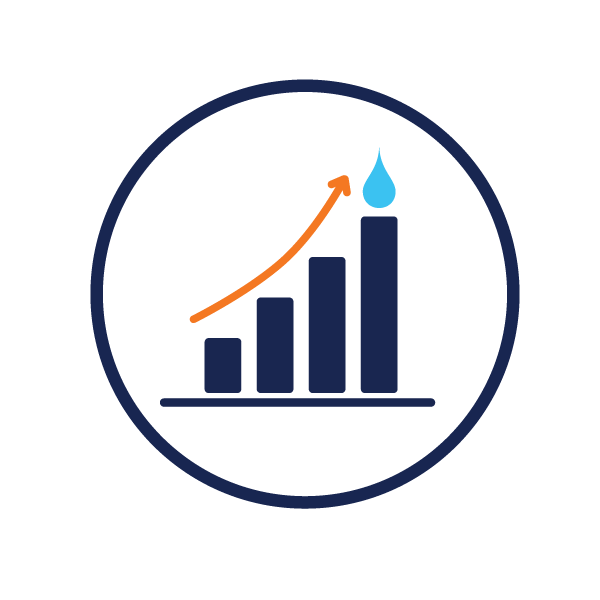
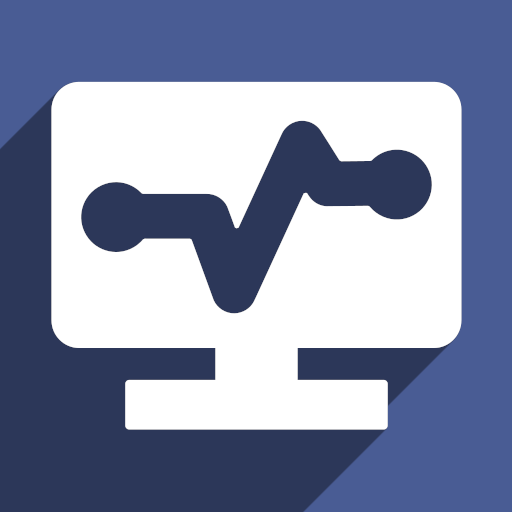
[UPD] base_wua_pressurized_irrigation_monitoring: Add iconset * fa-monitoring-monitor * fa-monitoring-line-ecg * fa-monitoring-control * fa-monitoring-compare

diff --git a/base_wua_pressurized_irrigation_monitoring/static/src/iconset/css/monitoring_iconset.css b/base_wua_pressurized_irrigation_monitoring/static/src/iconset/css/monitoring_iconset.css
@@ -1,0 +1,25 @@
+@font-face {
+  font-family: 'monitoring_iconset';
+  src: url('../font/monitoring_iconset.eot?76893623');
+  src: url('../font/monitoring_iconset.eot?76893623#iefix') format('embedded-opentype'),
+       url('../font/monitoring_iconset.woff2?76893623') format('woff2'),
+       url('../font/monitoring_iconset.woff?76893623') format('woff'),
+       url('../font/monitoring_iconset.ttf?76893623') format('truetype'),
+       url('../font/monitoring_iconset.svg?76893623#monitoring_iconset') format('svg');
+  font-weight: normal;
+  font-style: normal;
+}
+
+  [class^="fa-monitoring-"]:before, [class*=" fa-monitoring-"]:before {
+   display:inline-block;
+   font:normal normal normal 14px/1 monitoring_iconset;
+   font-size:inherit;
+   text-rendering:auto;
+   -webkit-font-smoothing:antialiased;
+   -moz-osx-font-smoothing:grayscale;
+}
+ 
+.fa-monitoring-monitor:before { content: '\e800'; } /* '' */
+.fa-monitoring-line-ecg:before { content: '\e801'; } /* '' */
+.fa-monitoring-control:before { content: '\e802'; } /* '' */
+.fa-monitoring-compare:before { content: '\e803'; } /* '' */

diff --git a/wua_flowmeter_rest_salz/models/wua_flowmeter.py b/wua_flowmeter_rest_salz/models/wua_flowmeter.py
@@ -1,0 +1,72 @@
+# -*- coding: utf-8 -*-
+# 2019 Moval Agroingeniería
+# License AGPL-3.0 or later (http://www.gnu.org/licenses/agpl.html).
+
+from odoo import models, fields, api, exceptions, _
+
+
+class WuaFlowmeter(models.Model):
+    _inherit = 'wua.flowmeter'
+
+    flowmeter_salz_id = fields.Integer(
+        string='Salz ID',
+        size=3,
+        help='The id that identifies the remote Salz flowmeter')
+
+    flowmeter_salz_gid = fields.Integer(
+        string='Salz GID',
+        size=3,
+        help='The group id that identifies the remote Salz flowmeter')
+
+    _sql_constraints = [
+        ('negative_flowmeter_id',
+         'CHECK (flowmeter_salz_id >= 0)',
+         'Flow meter ID can not be negative.'),
+        ('negative_flowmeter_gid',
+         'CHECK (flowmeter_salz_gid >= 0)',
+         'Flow meter GID can not be negative.'),
+        ]
+
+    @api.model
+    def run_remoteflowmeter_application_url(self):
+        enable_remote_flowmeter = self.env['ir.values'].get_default(
+            'wua.irrigation.configuration', 'enable_remote_flowmeter')
+        if not enable_remote_flowmeter:
+            raise exceptions.UserError(
+                _('The remote flowmeter is not enabled.'))
+        url_remote_flowmeter_app = self.env['ir.values'].get_default(
+            'wua.irrigation.configuration', 'url_remote_flowmeter_app')
+        if not url_remote_flowmeter_app:
+            raise exceptions.UserError(
+                _('There is not a URL for the remote flowmeter application.'))
+        return {
+            'type': 'ir.actions.act_url',
+            'url': url_remote_flowmeter_app,
+            'target': 'new', }
+
+    @api.model
+    def create(self, vals):
+        if 'flowmeter_salz_id' in vals and 'flowmeter_salz_gid' in vals:
+            current_flowmeters = self.env['wua.flowmeter'].search([])
+            for flowmeter in current_flowmeters:
+                if flowmeter.flowmeter_salz_id == vals['flowmeter_salz_id'] \
+                    and flowmeter.flowmeter_salz_gid == \
+                        vals['flowmeter_salz_gid']:
+                    raise exceptions.ValidationError(
+                        _('A flowmeter already exists with the same ID / GID '
+                          'combination.'))
+            new_flowmeter = super(WuaFlowmeter, self).create(vals)
+        return new_flowmeter
+
+    @api.multi
+    def write(self, vals):
+        if 'flowmeter_salz_id' in vals and 'flowmeter_salz_gid' in vals:
+            current_flowmeters = self.env['wua.flowmeter'].search([])
+            for flowmeter in current_flowmeters:
+                if flowmeter.flowmeter_salz_id == vals['flowmeter_salz_id'] \
+                    and flowmeter.flowmeter_salz_gid == \
+                        vals['flowmeter_salz_gid']:
+                    raise exceptions.ValidationError(
+                        _('A flowmeter already exists with the same ID / GID '
+                          'combination.'))
+        return super(WuaFlowmeter, self).write(vals)

diff --git a/wua_flowmeter_rest_salz/models/wua_irrigation_config_settings.py b/wua_flowmeter_rest_salz/models/wua_irrigation_config_settings.py
@@ -1,0 +1,51 @@
+# -*- coding: utf-8 -*-
+# 2020 Moval Agroingeniería
+# License AGPL-3.0 or later (http://www.gnu.org/licenses/agpl.html).
+
+from odoo import models, fields, api, exceptions, _
+
+
+class WuaIrrigationConfiguration(models.TransientModel):
+    _inherit = 'wua.irrigation.configuration'
+
+    enable_remote_flowmeter = fields.Boolean(
+        string='Enabled',
+        help='Enable/disable flowmeter')
+
+    url_remote_flowmeter_rest = fields.Char(
+        string='API REST URL',
+        size=255)
+
+    url_remote_flowmeter_rest_username = fields.Char(
+        string='Username',
+        size=255,
+        help='Username for authentication in remote flowmeter')
+
+    url_remote_flowmeter_rest_password = fields.Char(
+        string='Password',
+        size=255,
+        help='Password for authentication in remote flowmeter')
+
+    url_remote_flowmeter_app = fields.Char(
+        string='APP URL',
+        size=255)
+
+    @api.multi
+    def set_default_values(self):
+        super(WuaIrrigationConfiguration, self).set_default_values()
+        values = self.env['ir.values'].sudo()
+        values.set_default('wua.irrigation.configuration',
+                           'enable_remote_flowmeter',
+                           self.enable_remote_flowmeter)
+        values.set_default('wua.irrigation.configuration',
+                           'url_remote_flowmeter_rest',
+                           self.url_remote_flowmeter_rest)
+        values.set_default('wua.irrigation.configuration',
+                           'url_remote_flowmeter_rest_username',
+                           self.url_remote_flowmeter_rest_username)
+        values.set_default('wua.irrigation.configuration',
+                           'url_remote_flowmeter_rest_password',
+                           self.url_remote_flowmeter_rest_password)
+        values.set_default('wua.irrigation.configuration',
+                           'url_remote_flowmeter_app',
+                           self.url_remote_flowmeter_app)

diff --git a/wua_flowmeter_rest_salz/__manifest__.py b/wua_flowmeter_rest_salz/__manifest__.py
@@ -1,0 +1,24 @@
+# -*- coding: utf-8 -*-
+# 2020 Moval Agroingeniería
+# License AGPL-3.0 or later (http://www.gnu.org/licenses/agpl.html).
+
+{
+    "name": "Water Users Association: Interface with Flowmeter Salz",
+    "summary": "In a water users association, interface of Moval Regadio "
+               "with the remote flowmeter Salz, based on a REST API",
+    "version": '10.0.1.1.0',
+    "category": "Water Users Associations",
+    "website": "http://www.moval.es",
+    "author": "Moval Agroingeniería",
+    "license": "AGPL-3",
+    "depends": [
+        "base_wua_infrastructure_primary",
+        "wua_structure_irrigation",
+    ],
+    "data": [
+        "views/wua_irrigation_config_settings_view.xml",
+        "views/wua_flowmeter_view.xml",
+    ],
+    "installable": True,
+    "application": False,
+}

diff --git a/wua_flowmeter_rest_salz/models/__init__.py b/wua_flowmeter_rest_salz/models/__init__.py
@@ -1,0 +1,6 @@
+# -*- coding: utf-8 -*-
+# 2020 Moval Agroingeniería
+# License AGPL-3.0 or later (http://www.gnu.org/licenses/agpl.html).
+
+from . import wua_irrigation_config_settings
+from . import wua_flowmeter

diff --git a/wua_flowmeter_rest_salz/__init__.py b/wua_flowmeter_rest_salz/__init__.py
@@ -1,0 +1,5 @@
+# -*- coding: utf-8 -*-
+# 2020 Moval Agroingeniería
+# License AGPL-3.0 or later (http://www.gnu.org/licenses/agpl.html).
+
+from . import models

diff --git a/wua_flowmeter_rest_salz/README.rst b/wua_flowmeter_rest_salz/README.rst
@@ -1,0 +1,38 @@
+.. image:: https://img.shields.io/badge/licence-AGPL--3-blue.svg
+   :target: http://www.gnu.org/licenses/agpl-3.0-standalone.html
+   :alt: License: AGPL-3
+
+==================================================================
+Water Users Association Irrigation (interface with flowmeter SALZ)
+==================================================================
+
+Interface of Moval Regadio with the remote flowmeter Salz based on a REST API.
+
+Description
+===========
+
+Interface of Moval Regadio with the remote flowmeter Salz, based on a REST API. 
+
+Credits
+=======
+
+* Moval Agroingeniería S.L.
+
+Contributors
+------------
+
+* Alberto Hernández <[email redacted]>
+* Eduardo Iniesta <[email redacted]>
+* Miguel Mora <[email redacted]>
+* Juanu Sandoval <[email redacted]>
+* Salvador Sánchez <[email redacted]>
+* Jorge Vera <[email redacted]>
+
+Maintainer
+----------
+
+.. image:: https://services.moval.es/static/images/logo_moval_small.png
+   :target: http://moval.es
+   :alt: Moval Agroingeniería
+
+This module is maintained by Moval Agroingeniería.